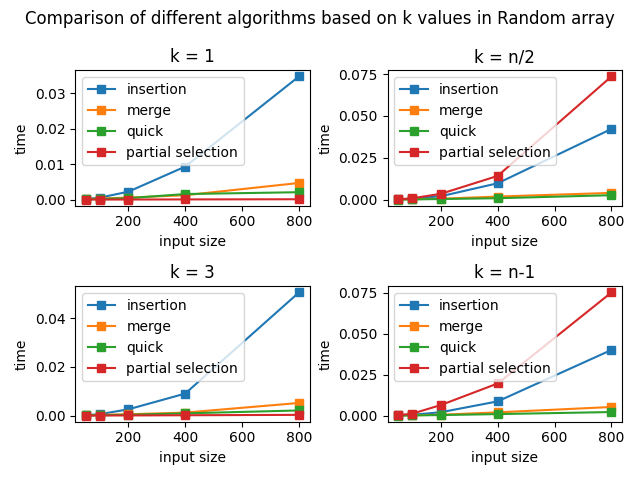
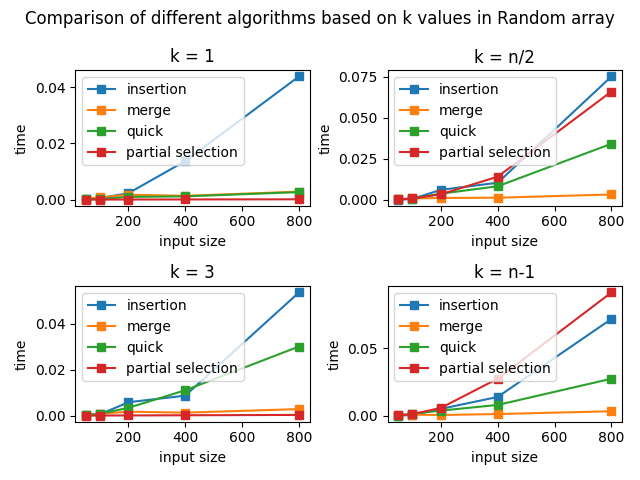
final fixed version

diff --git a/main.py b/main.py
@@ -66,7 +66,7 @@ def duplicateInput(ns):
     arr = []
     i = 0
     for n in ns:
-        print(n)
+        # print(n)
         arr1 = []
         for i in range(n):
             arr1.append(1)
@@ -77,7 +77,7 @@ def duplicateInput(ns):
 
 def plotvsforK(ns, arr, names, k, arrType):
     i = 0
-    print(arr)
+    # print(arr)
 
     k = [1, k, "n/2", "n-1"]
     j = 0
@@ -91,7 +91,7 @@ def plotvsforK(ns, arr, names, k, arrType):
         for ar in arr:
             axis[x1, y1].plot(ns, arr[i][j], 's-', label=names[i])
             i = i + 1
-            print(x1, y1)
+            # print(x1, y1)
             axis[x1, y1].set_title("k = " + str(k[j]))
             axis[x1, y1].legend(loc='upper left')
 
@@ -174,7 +174,7 @@ def convert(xlist, ns, name):
         arr.append(n4)
 
         plt.figure(1)
-        print(x1, "and", y1)
+        # print(x1, "and", y1)
         axis[x1, y1].plot(ns, n1, 's-', label='k=1')
         axis[x1, y1].plot(ns, n2, 's-', label='k=3')
         axis[x1, y1].plot(ns, n3, 's-', label='k=n/2')
@@ -201,24 +201,18 @@ def convert(xlist, ns, name):
     return arr_ret
 
 
-def insertionLoop(inputs, k, type):
+def insertionLoop(inputs, k):
     xinsert = []
     xs = []
     for input1 in inputs:
-        klist = [1, k]
         n = len(input1)
-        klist.append(int(n / 2))
-        klist.append(n)
+        klist = [1, k, int(n / 2), n]
+
         x1 = []
         for k2 in klist:
-            if type == 'sorted':
-                input1.sort()
-            elif type == 'reversed sorted':
-                input1.sort(reverse=True)
-            else:
-                random.shuffle(input1)
 
-            insertionSort = Algorithm("insertionSort", input1, k2)
+            temp = input1.copy()
+            insertionSort = Algorithm("insertionSort", temp, k2)
             insertionSort.insertionSort()
             if k2 == k:
                 xinsert.append(insertionSort.elapsedTime)
@@ -237,16 +231,16 @@ def insertionSortAnalysis(k, inputs, ns):
     xinsertlist = []
 
     # --------------------------------- INITIAL ARRAY ---------------------------------
-    xinsert, xs = insertionLoop(inputs, k, "initial")
+    xinsert, xs = insertionLoop(inputs, k)
     # --------------------------------- SORTED ARRAY ---------------------------------
     sortthearrays(input_sorted)
-    xinsert2, xs2 = insertionLoop(input_sorted, k, "sorted")
+    xinsert2, xs2 = insertionLoop(input_sorted, k)
     # --------------------------------- REVERSED SORTED ARRAY ---------------------------------
     reversedsortthearrays(input_reversed)
-    xinsert3, xs3 = insertionLoop(input_reversed, k, "reversed sorted")
+    xinsert3, xs3 = insertionLoop(input_reversed, k)
     # --------------------------------- DUPLICATE ARRAY ---------------------------------
     input_dup = duplicateInput(ns)
-    xinsert4, xs4 = insertionLoop(input_dup, k, "duplicate")
+    xinsert4, xs4 = insertionLoop(input_dup, k)
 
     # --------------------------------- AVERAGE ---------------------------------
     avgArray = averageInput(ns)
@@ -282,23 +276,18 @@ def insertionSortAnalysis(k, inputs, ns):
     return randomn1
 
 
-def mergesortLoop(inputs, k, type):
+def mergesortLoop(inputs, k):
     xmerge = []
     xs = []
     for input in inputs:
-        klist = [1, k]
+
         n = len(input)
-        klist.append(int(n / 2))
-        klist.append(n)
+        klist = [1, k, int(n / 2), n]
+
         x1 = []
         for k2 in klist:
-            if type == 'sorted':
-                input.sort()
-            elif type == 'reversed sorted':
-                input.sort(reverse=True)
-            else:
-                random.shuffle(input)
-            mergeSort = Algorithm("mergeSort", input, k2)
+            input_k = input.copy()
+            mergeSort = Algorithm("mergeSort", input_k, k2)
             mergeSort.mergeFinal()
             if k2 == k:
                 xmerge.append(mergeSort.elapsedTime)
@@ -314,16 +303,16 @@ def mergesortAnalyis(k, inputs, ns):
     input_sorted = inputs.copy()
     input_reversed = inputs.copy()
     # --------------------------------- INITIAL ARRAY ---------------------------------
-    xmerge, xs = mergesortLoop(inputs, k, "initial")
+    xmerge, xs = mergesortLoop(inputs, k)
     # --------------------------------- SORTED ARRAY ---------------------------------
     sortthearrays(input_sorted)
-    xmerge2, xs2 = mergesortLoop(input_sorted, k, "sorted")
+    xmerge2, xs2 = mergesortLoop(input_sorted, k)
     # --------------------------------- REVERSED SORTED ARRAY ---------------------------------
     reversedsortthearrays(input_reversed)
-    xmerge3, xs3 = mergesortLoop(input_reversed, k, "reversed sorted")
+    xmerge3, xs3 = mergesortLoop(input_reversed, k)
     # --------------------------------- DUPLICATE ARRAY ---------------------------------
     input_dup = duplicateInput(ns)
-    xmerge4, xs4 = mergesortLoop(input_dup, k, "duplicate")
+    xmerge4, xs4 = mergesortLoop(input_dup, k)
     # --------------------------------- AVERAGE ---------------------------------
     avgArray = averageInput(ns)
     xmerge5 = []
@@ -360,23 +349,16 @@ def mergesortAnalyis(k, inputs, ns):
     return randomn2
 
 
-def quicksortLoop(inputs, k, type):
+def quicksortLoop(inputs, k):
     xquick = []
     xs = []
     for input in inputs:
-        klist = [1, k]
         n = len(input)
-        klist.append(int(n / 2))
-        klist.append(n)
+        klist = [1, k, int(n / 2), n]
         x1 = []
         for k2 in klist:
-            if type == 'sorted':
-                input.sort()
-            elif type == 'reversed sorted':
-                input.sort(reverse=True)
-            else:
-                random.shuffle(input)
-            quicksort = Algorithm("quicksort", input, k2)
+            input_k = input.copy()
+            quicksort = Algorithm("quicksort", input_k, k2)
             quicksort.quicksort(input, 0, n - 1, 0)
             if k2 == k:
                 xquick.append(quicksort.elapsedTime)
@@ -392,16 +374,16 @@ def quicksortAnalyis(k, inputs, ns):
     input_sorted = inputs.copy()
     input_reversed = inputs.copy()
     # --------------------------------- INITIAL ARRAY ---------------------------------
-    xquick, xs = quicksortLoop(inputs, k, "initial")
+    xquick, xs = quicksortLoop(inputs, k)
     # --------------------------------- SORTED ARRAY ---------------------------------
     sortthearrays(input_sorted)
-    xquick2, xs2 = quicksortLoop(input_sorted, k, sorted)
+    xquick2, xs2 = quicksortLoop(input_sorted, k)
     # --------------------------------- REVERSED SORTED ARRAY ---------------------------------
     reversedsortthearrays(input_reversed)
-    xquick3, xs3 = quicksortLoop(input_reversed, k, "reversed sorted")
+    xquick3, xs3 = quicksortLoop(input_reversed, k)
     # --------------------------------- DUPLICATE ARRAY ---------------------------------
     input_dup = duplicateInput(ns)
-    xquick4, xs4 = quicksortLoop(input_dup, k, "duplicate")
+    xquick4, xs4 = quicksortLoop(input_dup, k)
     # --------------------------------- AVERAGE ---------------------------------
     avgArray = averageInput(ns)
     xquick5 = []
@@ -438,25 +420,18 @@ def quicksortAnalyis(k, inputs, ns):
     return randomn3
 
 
-def partialSelectionSortLoop(inputs, k, type):
+def partialSelectionSortLoop(inputs, k):
     xp = []
     xs = []
     for input in inputs:
-        klist = [1, k]
         n = len(input)
-        klist.append(int(n / 2))
-        klist.append(n)
+        klist = [1, k, int(n / 2), n]
         x1 = []
         for k2 in klist:
 
-            if type == 'sorted':
-                input.sort()
-            elif type == 'reversed sorted':
-                input.sort(reverse=True)
-            else:
-                random.shuffle(input)
+            input_k = input.copy()
 
-            partialSelectionSort = Algorithm("partialSelectionSort", input, k2)
+            partialSelectionSort = Algorithm("partialSelectionSort", input_k, k2)
             partialSelectionSort.partialSelectionSort()
             if k2 == k:
                 xp.append(partialSelectionSort.elapsedTime)
@@ -471,16 +446,16 @@ def partialSelectionSortAnalyis(k, inputs, ns):
     input_sorted = inputs.copy()
     input_reversed = inputs.copy()
     # --------------------------------- INITIAL ARRAY ---------------------------------
-    xp, xs = partialSelectionSortLoop(inputs, k, "initial")
+    xp, xs = partialSelectionSortLoop(inputs, k)
     # --------------------------------- SORTED ARRAY ---------------------------------
     sortthearrays(input_sorted)
-    xp2, xs2 = partialSelectionSortLoop(input_sorted, k, "sorted")
+    xp2, xs2 = partialSelectionSortLoop(input_sorted, k)
     # --------------------------------- REVERSED SORTED ARRAY ---------------------------------
     reversedsortthearrays(input_reversed)
-    xp3, xs3 = partialSelectionSortLoop(input_reversed, k, "reversed sorted")
+    xp3, xs3 = partialSelectionSortLoop(input_reversed, k)
     # --------------------------------- DUPLICATE ARRAY ---------------------------------
     input_dup = duplicateInput(ns)
-    xp4, xs4 = partialSelectionSortLoop(input_dup, k, "duplicate")
+    xp4, xs4 = partialSelectionSortLoop(input_dup, k)
 
     # --------------------------------- AVERAGE ---------------------------------
     avgArray = averageInput(ns)
@@ -516,23 +491,16 @@ def partialSelectionSortAnalyis(k, inputs, ns):
     return randomn4
 
 
-def heapLoop(inputs, k, type):
+def heapLoop(inputs, k):
     xp = []
     xs = []
     for input in inputs:
-        klist = [1, k]
         n = len(input)
-        klist.append(int(n / 2))
-        klist.append(n)
+        klist = [1, k, int(n / 2), n]
         x1 = []
         for k2 in klist:
-            if type == 'sorted':
-                input.sort()
-            elif type == 'reversed sorted':
-                input.sort(reverse=True)
-            else:
-                random.shuffle(input)
-            maxHeapSort = Algorithm("PartialHeapSort", input, k2)
+            input_k = input.copy()
+            maxHeapSort = Algorithm("PartialHeapSort", input_k, k2)
             maxHeapSort.maxHeapSort()
             if k2 == k:
                 xp.append(maxHeapSort.elapsedTime)
